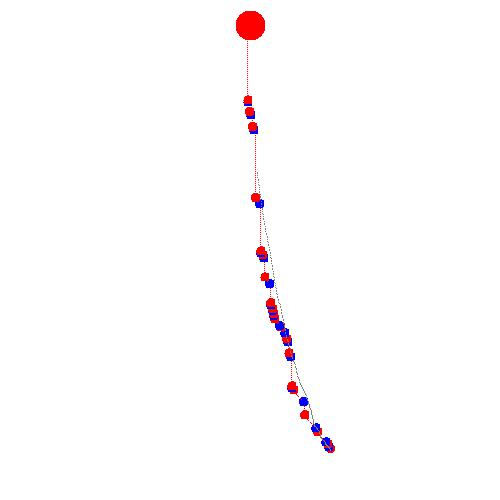
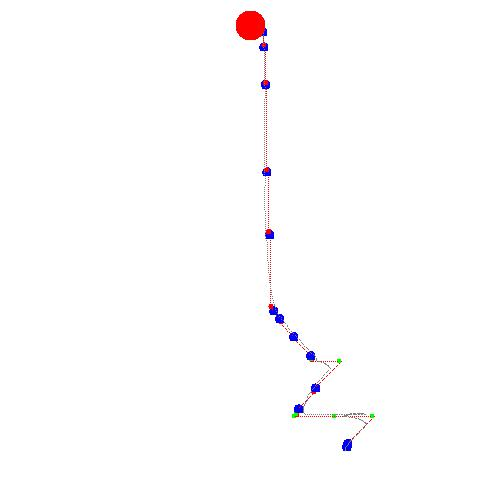
added two new temporary files to demonstrate competition of different nav modes and competition of different cast mode also got some better performance out of the KalmanFilterLinear

Changed region(s): [[0.48, 0.15, 0.75, 0.93], [0.51, 0.06, 0.54, 0.12]]

diff --git a/moth/Four trajectories - different cast modes nav=3.py b/moth/Four trajectories - different cast modes nav=3.py
@@ -52,7 +52,7 @@ class KalmanFilterLinear:
 
 
     
-def moth_demo(x_start = 450, y_start = 345, dt=0.01, t_max = 10, draw_iter_interval=1):
+def moth_demo(x_start = 450, y_start = 330, dt=0.01, t_max = 6, draw_iter_interval=1):
     """
     a copy of the concetration_array_demo with the moth actions integrated
     """
@@ -65,11 +65,11 @@ def moth_demo(x_start = 450, y_start = 345, dt=0.01, t_max = 10, draw_iter_inter
     array_dict = {}
     times_list = [] # a list of the time it took different moths to reach the goal, for hist purposes
     del_list = [] # a list of the moth indices that finished the track and were deleted 
-
-    num_it=1 #number of iterations
-    dist_it=100 #distance on y axis between starting points on different iterations
-    for i in range(num_it):
-        moth_dict["moth{0}".format(i)] = models.moth_modular(sim_region, x_start, y_start-i*dist_it)
+    num_it = 4
+    dist_it= 15 #distance on y axis between starting points on different iterations
+    for i in range(num_it): 
+        #moth dict has four different moths 
+        moth_dict["moth{0}".format(i)] = models.moth_modular(sim_region, x_start, y_start - dist_it*i ,3,i+1)#nav =1,2,3,4
         list_dict["moth_trajectory_list{0}".format(i)] = []
         array_dict["trajectory_array{0}".format(i)] = np.zeros((500,500))
         
@@ -154,9 +154,9 @@ def moth_demo(x_start = 450, y_start = 345, dt=0.01, t_max = 10, draw_iter_inter
     control_vector = np.matrix([[0],[0],[0],[0]])
     observation_matrix = np.eye(4)
     initial_probability = np.eye(4)
-    process_covariance =0.0001*np.eye(4) #A crucial factor in this process
-    measurement_covariance = np.eye(4)*0.1
-    
+    process_covariance =0*np.eye(4) #A crucial factor in this process
+    measurement_covariance = np.eye(4)*0.01
+    """kalman stuff
     #a dictionary of lists of the kalman corrections - (x,y) only.
     kalman_dict = {}
     #for each list in the list dictionary we will create a new kalman list 
@@ -177,11 +177,11 @@ def moth_demo(x_start = 450, y_start = 345, dt=0.01, t_max = 10, draw_iter_inter
             ky = (kf.GetCurrentState()[2,0])
             kf.Step(control_vector,np.matrix([[x],[vx],[y],[vy]]))
             kalman_dict["Kalman_list{0}".format(i)].append((kx,ky))
-            
+    """       
     #graphics:       
     #create a matrix, insert all colored trajectories
     im = 1*np.ones((500,500,3))
-    color_list =[(1,0,0),(0,1,0),(0,0,1)]
+    color_list =[(1,0,0),(0,1,0),(0,0,1),(1,1,0)]
     #draw in the trajectories in different colors
     for i in range(num_it):
         for tup in diff_dict["diff_list{0}".format(i)]:
@@ -190,12 +190,14 @@ def moth_demo(x_start = 450, y_start = 345, dt=0.01, t_max = 10, draw_iter_inter
             if tup[3] == 'odor found':
                 circle(im,tup[1],tup[0]) # red circle for finding odor
             if tup[3] == 'odor lost':
-                circle(im,tup[1],tup[0],5,(0,0,1))#blue circle for losing odor
+                circle(im,tup[1],tup[0],3,(0,0,1))#blue circle for losing odor
             if tup[4] == True:
                 square(im,tup[1],tup[0])#green square for a sharp angle (timer runout)
+    """ kalman stuff
     for i in range(num_it):
         for tup in kalman_dict["Kalman_list{0}".format(i)]:
             im[tup[0]][tup[1]] = (0.5,0.5,0.5)
+    """
 
     #draw the odor source as a big red circle
     circle(im,250,25,15)    

diff --git a/moth/Four trajectories - different nav modes cast2.py b/moth/Four trajectories - different nav modes cast2.py
@@ -52,7 +52,7 @@ class KalmanFilterLinear:
 
 
     
-def moth_demo(x_start = 450, y_start = 350, dt=0.01, t_max = 4, draw_iter_interval=1):
+def moth_demo(x_start = 450, y_start = 335, dt=0.01, t_max = 7, draw_iter_interval=1):
     """
     a copy of the concetration_array_demo with the moth actions integrated
     """
@@ -66,10 +66,10 @@ def moth_demo(x_start = 450, y_start = 350, dt=0.01, t_max = 4, draw_iter_interv
     times_list = [] # a list of the time it took different moths to reach the goal, for hist purposes
     del_list = [] # a list of the moth indices that finished the track and were deleted 
     num_it = 4
-    dist_it= 30 #distance on y axis between starting points on different iterations
+    dist_it= 10 #distance on y axis between starting points on different iterations
     for i in range(num_it): 
         #moth dict has four different moths 
-        moth_dict["moth{0}".format(i)] = models.moth_modular(sim_region, x_start - dist_it, y_start - dist_it ,i+1)#nav =1,2,3,4
+        moth_dict["moth{0}".format(i)] = models.moth_modular(sim_region, x_start, y_start - dist_it*i ,i+1)#nav =1,2,3,4
         list_dict["moth_trajectory_list{0}".format(i)] = []
         array_dict["trajectory_array{0}".format(i)] = np.zeros((500,500))
         
